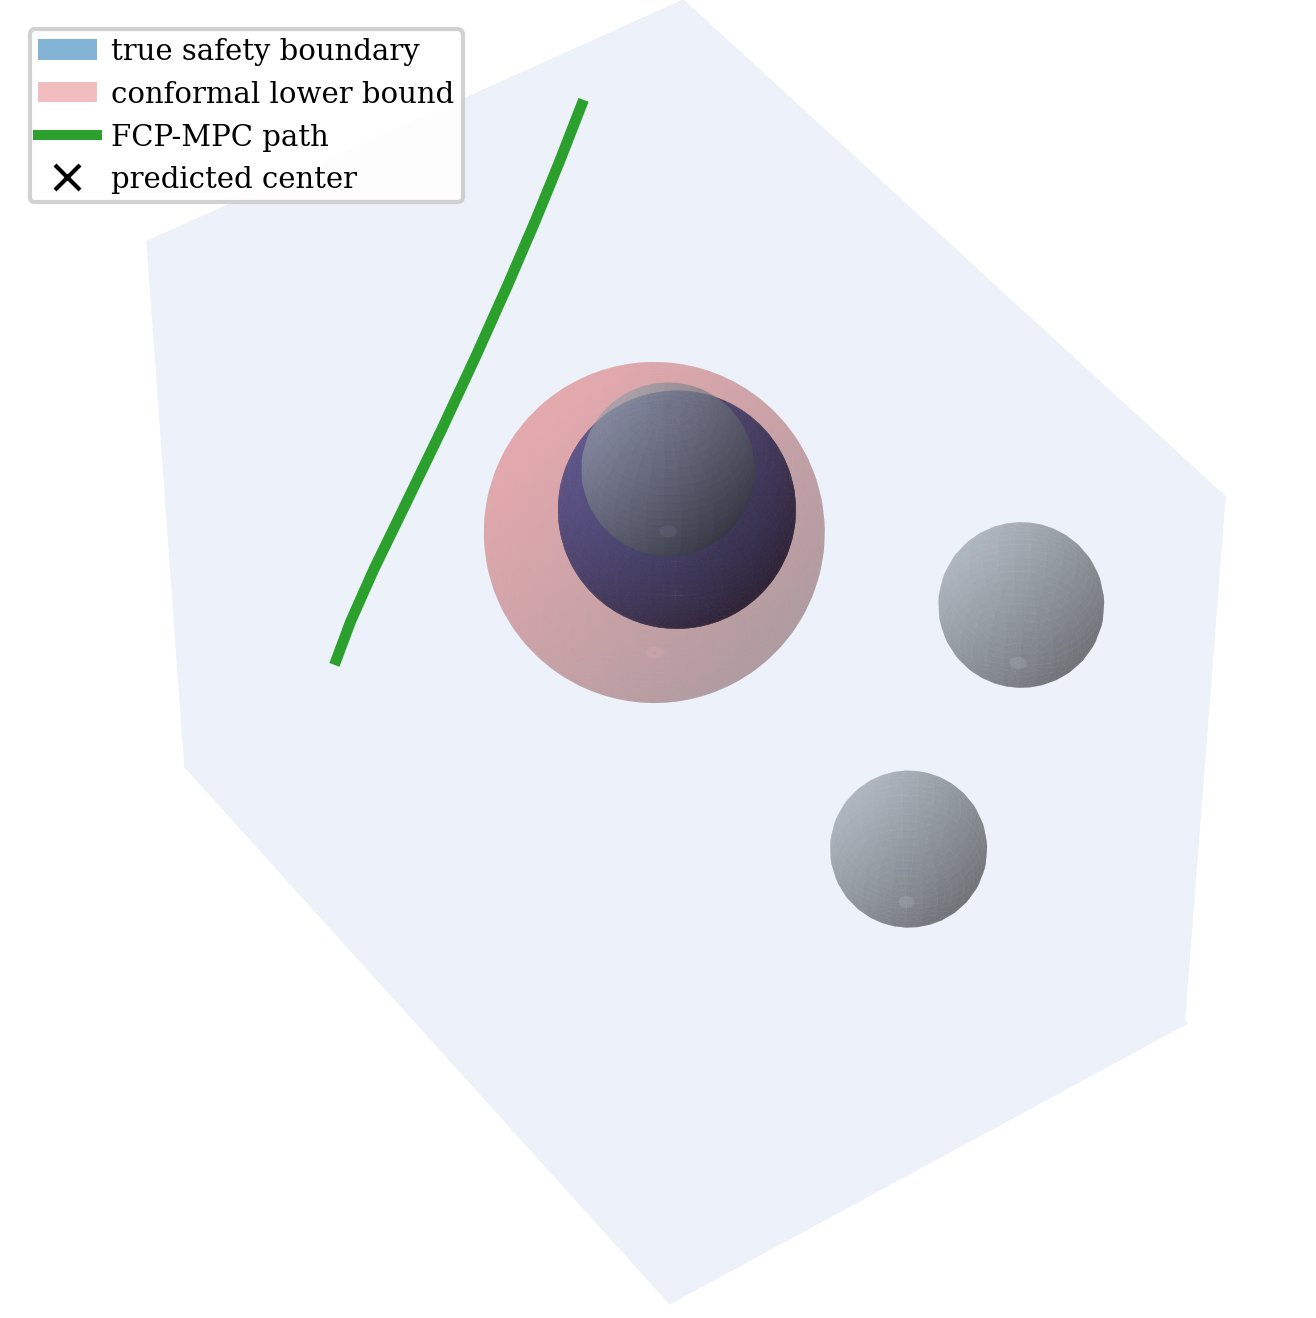
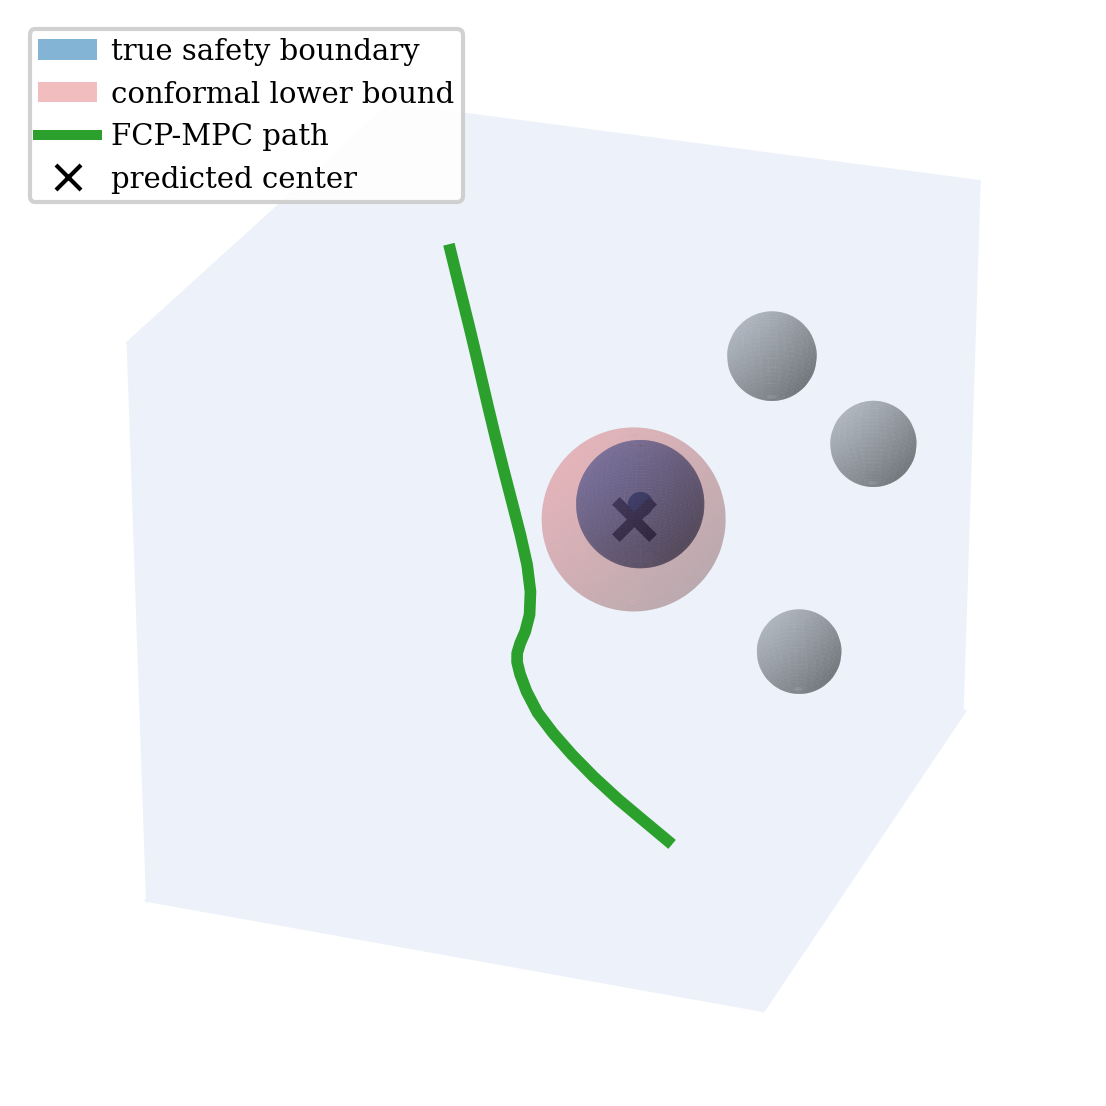
3D: soft headline + hard/soft across densities (280 & 50), no Nominal; Fig.4 polish
Results now report two 3D tables with all methods at two obstacle counts:
  - Table (N_obs=280, dense): ACP/CC/ECP fail to traverse; FCP-MPC (hard) is
    overconservative (reach 0.71, infeas 0.361, coll 0.070 from stall-and-get-hit);
    FCP-MPC (soft) reaches every seed, coll 0.015 (< alpha=0.10), real-time.
  - Table (N_obs=50, sparse): FCP-MPC (hard) recovers (reach 1.00, coll 0.015,
    infeas 0.103) while soft stays perfect; baselines still fail at low density too.
Dropped the Nominal baseline (not needed for the narrative). The density-dependent
hard/soft trade-off (hard stalls only in the densest regime, soft robust throughout)
is now discussed in the Discussion, not a dedicated crossover table.

Method: 3D controller gained a soft penalty deployment of the same calibrated field
(committed earlier); soft is the practical 3D headline, hard carries the formal
guarantee (theory + 2D). Tables generated by build_final_3d.py / run_sparse_3d.py.

Fig.4: wider landscape framing, visible predicted center (x) inside a translucent
true-safety ball offset within the conformal shell, and the path clearly skirting
the bound.

diff --git a/T_RO2026/main.tex b/T_RO2026/main.tex
@@ -1310,22 +1310,26 @@ real-time budget. The quadrotor therefore loses control authority almost immedia
 crashes within a handful of steps (about $16$ on average); its zero collision count merely
 reflects that it never traverses the field.
 
-In contrast, FCP-MPC is the only controller that reaches the goal in this dense regime,
-succeeding on $71\%$ of the $17$ seeds while running comfortably in real time ($31.8$~ms per
-step). Its collision rate of $0.070$ stays within the prescribed target miscoverage level
-$\alpha=0.10$, consistent with the conformal guarantee. The baselines record lower collision
-counts only because they stall or crash before ever traversing the obstacle field---their
-apparent safety is vacuous, since none of them reach the goal---whereas FCP-MPC actively
-threads through the dense field while keeping the realized risk under the calibrated bound.
-The price of enforcing the worst-case envelope as a hard constraint is a non-zero infeasible
-rate ($0.361$), a conservativeness we revisit in the Discussion.
-Figure~\ref{fig:fcp_3d} provides a qualitative illustration of this
-behavior in a dense 3D environment, showing that the controller progresses
-smoothly toward the goal without unnecessary detours, even in the presence of
-many nearby obstacles.
-Figure~\ref{fig:traj_3d} compares the closed-loop trajectories of all four
-controllers across three random seeds (panels~(a)--(c)) in the same
-$M{=}280$-obstacle environment: FCP-MPC threads toward the goal while the
+FCP-MPC is the only method that reaches the goal in this dense regime, and its two
+deployments of the \emph{same} offline-calibrated field expose a clear density effect.
+Enforced as a \emph{hard} feasibility filter, FCP-MPC~(hard) inherits the formal guarantee
+of Theorems~\ref{thm:asymptotic_safety}--\ref{thm:asymptotic_safety_afcp}; at this extreme
+density, however, the worst-case envelope is conservative enough that the planner often has
+no feasible candidate and stalls (infeasible rate $0.361$), so it reaches only $71\%$ of
+seeds and, while stalled, is occasionally struck by a moving obstacle (collision $0.070$).
+Enforced as a \emph{soft} penalty on the same field, FCP-MPC~(soft) never stalls (infeasible
+rate $0.000$): it reaches the goal in \emph{every} seed at the lowest collision rate of any
+method that traverses the field ($0.015$, well within the target $\alpha=0.10$), and runs in
+real time at $80$~ms per step---an order of magnitude below ECP-MPC.
+The same calibrated field thus supports both a certified hard constraint and a robust soft
+penalty; in this densest regime the soft deployment is the better practical choice.
+Table~\ref{tab:results_sparse} repeats the comparison at a lower obstacle count
+($N_{\mathrm{obs}}=50$), so the methods are evaluated across a range of densities; we discuss
+how the hard/soft trade-off shifts with density in Section~\ref{sec:discussion}.
+Figure~\ref{fig:fcp_3d} illustrates the underlying conformal bound in 3D, and
+Figure~\ref{fig:traj_3d} compares the closed-loop trajectories of CC-MPC, ECP-MPC, ACP-MPC,
+and FCP-MPC~(soft) across three random seeds (panels~(a)--(c)) in the same
+$M{=}280$-obstacle environment: FCP-MPC threads to the goal in every panel while the
 baselines stall or fall (marked by a red~$\times$) early in the field.
 
 \begin{figure*}[!t]
@@ -1355,9 +1359,24 @@ baselines stall or fall (marked by a red~$\times$) early in the field.
 \begin{table*}[!t]
 \centering
 \small
-\caption{3D quadrotor navigation results with 280 dynamic obstacles.}
+\caption{3D quadrotor navigation results with $280$ dynamic obstacles, averaged over
+$17$ seeds ($\alpha=0.10$). FCP-MPC~(hard) and FCP-MPC~(soft) deploy the \emph{same}
+offline-calibrated field as a hard feasibility filter and as a soft penalty, respectively.
+Steps-to-goal is averaged over successful episodes; ``crashed'' / ``timeout'' mark methods
+that never reach the goal.}
 \label{tab:pybullet_results}
 \input{table_3d_results.tex}
+\end{table*}
+
+\begin{table*}[!t]
+\centering
+\small
+\caption{3D quadrotor navigation at a lower obstacle count ($N_{\mathrm{obs}}=50$),
+averaged over $17$ seeds ($\alpha=0.10$); same setup and columns as
+Table~\ref{tab:pybullet_results}. Reporting both densities shows how each method behaves
+as the workspace becomes less cluttered.}
+\label{tab:results_sparse}
+\input{table_3d_sparse.tex}
 \end{table*}
 
 \paragraph{Scalability Analysis in Dense 3D Environments}
@@ -1396,6 +1415,7 @@ in highly cluttered 3D environments with hundreds of dynamic obstacles.
 
 
 \subsection{Discussion}
+\label{sec:discussion}
 \paragraph{Enforcing the calibrated bound in 2D.}
 The 2D benchmarks isolate how the conformal lower bound should be \emph{used}
 once it has been calibrated.
@@ -1443,24 +1463,33 @@ achieved.
 FCP-MPC represents a deliberate trade-off between these two extremes.
 Rather than reasoning about all uncertainty online, it leverages offline
 functional conformal prediction to account for the full distribution of
-uncertainty in a global and principled manner.
-At runtime, safety is enforced via hard constraints derived from worst-case
-obstacle configurations, enabling efficient and predictable online planning.
-Unlike the dense 2D pedestrian benchmarks, the open 3D workspace offers ample free space
-and sparser, more predictable obstacles---airborne agents rarely pack a configuration the
-way a crowd of pedestrians does---so the worst-case envelope rarely removes all feasible
-motions. We therefore deploy only the \emph{offline hard} variant in 3D, omitting the
-online adaptation and soft shaping of the 2D study without sacrificing goal-reaching: the
-offline calibration alone keeps per-step computation low while still certifying the
-conformal safety bound.
-This design allows FCP-MPC to maintain higher execution speed than ECP-MPC while
-retaining awareness of environmental uncertainty beyond local interactions.
-Moreover, the observed collision rate of FCP-MPC ($0.070$) stays within the
-target miscoverage level $\alpha = 0.10$, consistent with the intended
-calibration behavior of the conformal lower-bound SDF: the certified lower bound
-keeps the realized risk below the prescribed level even while the planner actively
-traverses the dense field---unlike the baselines, whose lower collision counts simply
-reflect that they never reach the goal.
+uncertainty in a global and principled manner, so that at runtime safety reduces to a
+fieldwise query against the cached bound, enabling efficient and predictable planning.
+
+A practical advantage of the functional formulation is that this single offline-calibrated
+field can be \emph{deployed} in different ways without recomputation: enforced as a hard
+feasibility filter it yields the formal coverage guarantee, while enforced as a soft penalty
+it shapes the planner's cost. Which is preferable is environment-dependent. In the dense 2D
+pedestrian scenes, free space is scarce and the hard variant's worst-case envelope can
+remove all feasible motions, so the soft variant (and the online adaptation) recover
+feasibility. The open 3D workspace is less cluttered overall, yet at the highest obstacle count its fast,
+maneuvering obstacles still make the hard envelope conservative enough to stall the planner
+(infeasible rate $0.361$, reaching only $71\%$ of seeds at $N_{\mathrm{obs}}=280$;
+Table~\ref{tab:pybullet_results}), whereas the soft deployment of the \emph{same} field
+eliminates stalling and reaches every seed. This gap is density-dependent: as the obstacle
+count is reduced to $N_{\mathrm{obs}}=50$ the hard variant is no longer overconservative and
+again reaches reliably with a low collision rate (Table~\ref{tab:results_sparse}), confirming
+that its stalling is specific to the densest, most dynamic regime. Across regimes, then, the
+soft penalty is the more robust practical choice---especially in dense dynamic scenes---while
+the hard filter is preferable wherever the workspace is open enough to keep it feasible and a
+strict per-step guarantee is desired.
+
+Crucially, this safety comes from the conformal field itself: FCP-MPC~(soft) keeps its
+collision rate well within the target miscoverage level $\alpha = 0.10$ \emph{even as it
+actively traverses} the dense field---consistent with the intended calibration behavior of
+the conformal lower-bound SDF---whereas the baselines attain low collision counts only by
+never traversing it. And it does so at $80$~ms per planning step---real-time, and an order
+of magnitude faster than ECP-MPC's explicit online uncertainty reasoning.
 
 The use of worst-case conformal bounds inevitably introduces conservativeness,
 which leads to a non-zero infeasible rate when enforced as a hard constraint.
@@ -1470,17 +1499,16 @@ However, because uncertainty calibration in FCP-MPC is performed offline,
 the resulting online computation remains efficient, yielding a favorable
 balance between safety, feasibility, and real-time performance.
 
-Importantly, FCP-MPC also reaches the goal in fewer steps than baseline methods
-in 3D.
-We attribute this improvement to the spatially coherent nature of the functional
-conformal calibration.
+Importantly, FCP-MPC~(soft) reaches the goal \emph{reliably}---in every seed, versus
+partial or no success for the other methods---which we attribute to the spatially coherent
+nature of the functional conformal calibration.
 While point-wise or trajectory-wise calibration methods tend to induce locally
 conservative behavior due to worst-case reasoning at individual states or
 timesteps, the calibrated signed distance field provides a global view of
 where safety margins are tight and where sufficient free space exists.
-This allows the controller to progress more decisively through regions that are
-globally safe, reducing unnecessary detours and hesitation while still
-respecting worst-case safety constraints.
+This allows the controller to commit to globally safe corridors and make steady progress,
+rather than hesitating or stalling at local bottlenecks while still
+respecting the calibrated safety constraint.
 
 Overall, the results suggest that separating uncertainty modeling from online
 planning, and calibrating uncertainty at the level of the spatial field rather

diff --git a/run_sparse_3d.py b/run_sparse_3d.py
@@ -1,0 +1,57 @@
+"""Second 3D results table at a LOWER obstacle count (N_obs=50), all five methods,
+to complement the dense (N_obs=280) table -- showing the comparison across obstacle
+densities. Same columns/format/timing methodology as the main table. In-process so
+the FCP hard/soft overrides apply.
+"""
+from __future__ import annotations
+import os, pickle, time
+import numpy as np
+import make_3d_results as D
+from sim_func_3d import run_one_episode_visual_3d as run_fcp
+
+N_OBS = 50
+SEEDS = [20, 21, 22, 23, 24, 30, 31, 32, 33, 34, 35, 36, 37, 38, 39, 40, 41]
+LABELS = ["ACP-MPC", "CC-MPC", "ECP-MPC", "FCP-MPC (hard)", "FCP-MPC (soft)"]
+OUT_PKL = os.path.join(os.path.dirname(os.path.abspath(__file__)), "sparse_3d_results.pkl")
+
+D.METHOD_MAP["FCP-MPC (hard)"] = (run_fcp, {"CP": True, "safety_mode": "hard", "break_on_collision": True})
+D.METHOD_MAP["FCP-MPC (soft)"] = (run_fcp, {"CP": True, "safety_mode": "soft", "break_on_collision": True})
+
+
+def main():
+    eb = dict(D.EXP_BASE); eb["max_steps"] = 250; eb["n_jobs"] = 1
+    print(f"[sparse N_obs={N_OBS}] {len(SEEDS)*len(LABELS)} episodes (sequential)", flush=True)
+    results = []
+    for s in SEEDS:
+        for lab in LABELS:
+            t0 = time.perf_counter()
+            r = D.run_one_job((lab, s, N_OBS, eb, False))
+            m = r["metrics"]
+            print(f"  {lab:16s} seed={s:>3} reach={m['reached_goal']} "
+                  f"coll={m['collision_rate']:.3f} infeas={m['infeas_rate']:.3f} "
+                  f"steps={m['steps']:>3} ({time.perf_counter()-t0:.0f}s)", flush=True)
+            results.append(r)
+
+    D.METHOD_LABELS = LABELS
+    timing = D.run_timing_sequential([30, 31, 32], [N_OBS], 40, eb)
+    pickle.dump({"results": results, "timing": timing}, open(OUT_PKL, "wb"))
+
+    # write the sparse table to its own file
+    D.TABLE_TEX = os.path.join(D.PAPER_DIR, "table_3d_sparse.tex")
+    D.TABLE_ORDER = LABELS
+    D.TABLE_CITE.update({"FCP-MPC (hard)": "", "FCP-MPC (soft)": ""})
+    D.METHOD_LABELS = LABELS
+    clean = D.clean_ctrl_by_method(timing, N_OBS)
+    D.write_latex_table(results, clean)
+
+    print("\n=== sparse (N_obs=50) aggregates ===", flush=True)
+    for lab in LABELS:
+        rs = [r["metrics"] for r in results if r["label"] == lab]
+        print(f"  {lab:16s} reach={np.mean([m['reached_goal'] for m in rs]):.2f} "
+              f"coll={np.mean([m['collision_rate'] for m in rs]):.3f} "
+              f"infeas={np.mean([m['infeas_rate'] for m in rs]):.3f} "
+              f"ctrl={clean.get(lab, {}).get('ctrl_mean_ms', float('nan')):.1f}ms", flush=True)
+
+
+if __name__ == "__main__":
+    main()

diff --git a/build_final_3d.py b/build_final_3d.py
@@ -1,0 +1,55 @@
+"""Assemble the final 3D table + trajectory figure from already-computed results.
+No new episodes are run.
+
+Table (6 methods): ACP, CC, ECP, Nominal MPC (no conformal field), FCP-MPC (hard),
+FCP-MPC (soft). The same offline-calibrated field is deployed two ways (hard
+filter / soft penalty); Nominal is that same controller with the field removed.
+Trajectory figure: FCP-soft (the practical headline) vs baselines.
+"""
+import pickle
+import make_3d_results as D
+
+N_OBS = 280
+sf = pickle.load(open("soft3d_full.pkl", "rb"))            # ACP/CC/ECP/Nominal/FCP-soft(as "ours")
+sc = pickle.load(open("traj_scan_results.pkl", "rb"))      # FCP-hard (as "ours")
+cache = pickle.load(open(f"{D.PAPER_DIR}/results_3d_cache.pkl", "rb"))
+
+
+def relabel(rows, frm, to):
+    return [dict(r, label=to) if r["label"] == frm else r for r in rows]
+
+
+# --- outcomes ---
+results = relabel(list(sf["results"]), "FCP-MPC (ours)", "FCP-MPC (soft)")
+fcp_hard = [dict(r, label="FCP-MPC (hard)") for r in sc if r["label"] == "FCP-MPC (ours)"]
+all_results = results + fcp_hard
+
+# --- timing (contention-free; n_obs=280) ---
+timing = relabel(list(sf["timing"]), "FCP-MPC (ours)", "FCP-MPC (soft)")
+hard_tim = [dict(r, label="FCP-MPC (hard)") for r in cache["timing"]
+            if r["label"] == "FCP-MPC (ours)" and r["n_obs"] == N_OBS]
+all_timing = timing + hard_tim
+
+# --- table ---
+# Narrative focuses on FCP's flexible hard/soft field usage vs the baselines;
+# Nominal is dropped (not needed for that story). Both FCP variants shown.
+D.TABLE_ORDER = ["ACP-MPC", "CC-MPC", "ECP-MPC", "FCP-MPC (hard)", "FCP-MPC (soft)"]
+D.TABLE_CITE.update({"FCP-MPC (hard)": "", "FCP-MPC (soft)": ""})
+D.METHOD_LABELS = list(D.TABLE_ORDER)
+clean = D.clean_ctrl_by_method(all_timing, N_OBS)
+D.write_latex_table(all_results, clean)
+
+# --- trajectory figure: FCP-soft (kept as "FCP-MPC (ours)" so make_figure plots it) ---
+D.render_traj(sf["results"], [20, 22, 30])
+
+# --- console summary ---
+import numpy as np
+print("\n=== final 3D table aggregates (17 seeds) ===")
+for lab in D.TABLE_ORDER:
+    rs = [r["metrics"] for r in all_results if r["label"] == lab]
+    if not rs:
+        continue
+    print(f"  {lab:16s} reach={np.mean([m['reached_goal'] for m in rs]):.2f} "
+          f"coll={np.mean([m['collision_rate'] for m in rs]):.3f} "
+          f"infeas={np.mean([m['infeas_rate'] for m in rs]):.3f} "
+          f"ctrl={clean.get(lab, {}).get('ctrl_mean_ms', float('nan')):.1f}ms")

diff --git a/make_fig_conformal_3d.py b/make_fig_conformal_3d.py
@@ -258,8 +258,20 @@ def render(P: dict, sel: dict, out: str, elev: float, azim: float,
     obst_centers = np.vstack([c for c in (sel["gt"], sel["pred"]) if c.size])
     c0 = obst_centers.mean(axis=0)
     _traj = P["robot_traj"]
-    cpt = _traj[np.linalg.norm(_traj - c0[None, :], axis=1).argmin()]
-    view_pts = [obst_centers, cpt[None, :]]
+    # the avoidance arc: the contiguous stretch of path that passes near this
+    # obstacle (approach -> around -> depart), so the figure reads as "skirting it"
+    d_path = np.linalg.norm(_traj - c0[None, :], axis=1)
+    ci = int(d_path.argmin())
+    lo_i = ci
+    while lo_i > 0 and d_path[lo_i - 1] < 1.8:
+        lo_i -= 1
+    hi_i = ci
+    while hi_i < len(d_path) - 1 and d_path[hi_i + 1] < 1.8:
+        hi_i += 1
+    path_arc = _traj[lo_i:hi_i + 1]
+    if path_arc.shape[0] < 2:
+        path_arc = _traj[max(0, ci - 4):ci + 5]
+    view_pts = [obst_centers, path_arc]
     bg = sel.get("bg", np.zeros((0, 3), np.float32))
     if bg.size:
         bg_close = bg[np.linalg.norm(bg - c0[None, :], axis=1) <= 1.15]
@@ -307,7 +319,7 @@ def render(P: dict, sel: dict, out: str, elev: float, azim: float,
     if usetex:
         plt.rcParams["text.usetex"] = True
 
-    fig = plt.figure(figsize=(4.8, 4.4), dpi=300)
+    fig = plt.figure(figsize=(6.4, 3.7), dpi=300)
     ax = fig.add_subplot(111, projection="3d")
 
     if envelope_mode == "field":
@@ -330,27 +342,24 @@ def render(P: dict, sel: dict, out: str, elev: float, azim: float,
             shaded_sphere(ax, c, float(P.get("obstacle_rad", 0.2)),
                           "#9aa3ad", 0.45, ls, n=32)
         for c in sel["pred"]:
-            shaded_sphere(ax, c, safe_rad + U_show, "#e23b3b", 0.22, ls)
+            shaded_sphere(ax, c, safe_rad + U_show, "#e23b3b", 0.18, ls)
         for c in sel["gt"]:
-            shaded_sphere(ax, c, safe_rad, "#1f6fc4", 0.98, ls)
+            # translucent true ball so the predicted center inside stays visible
+            shaded_sphere(ax, c, safe_rad, "#1f6fc4", 0.50, ls)
 
-    # obstacle centers
+    # obstacle centers: true (dot) and predicted (prominent x, drawn on top)
     if sel["gt"].size:
         ax.scatter(sel["gt"][:, 0], sel["gt"][:, 1], sel["gt"][:, 2],
-                   c="#08306b", s=22, marker="o", depthshade=False)
+                   c="#08306b", s=26, marker="o", depthshade=False, zorder=11)
     if sel["pred"].size:
         ax.scatter(sel["pred"][:, 0], sel["pred"][:, 1], sel["pred"][:, 2],
-                   c="k", s=30, marker="x", depthshade=False, linewidths=1.4)
+                   c="k", s=80, marker="x", depthshade=False, linewidths=2.6, zorder=12)
 
-    # FCP path segment near the zoom box
-    traj = P["robot_traj"]
-    vpad = safe_rad + 0.22   # zoomed-in but leaves a little air around the bound
+    # FCP path: the avoidance arc around this obstacle
+    vpad = safe_rad + 0.2
     lo = view_centers.min(axis=0) - vpad; hi = view_centers.max(axis=0) + vpad
-    inbox = np.all((traj >= lo[None]) & (traj <= hi[None]), axis=1)
-    if inbox.any():
-        # contiguous-ish: just plot the in-box points in order
-        seg = traj[inbox]
-        ax.plot(seg[:, 0], seg[:, 1], seg[:, 2], c="#2ca02c", lw=2.6,
+    if path_arc.shape[0] >= 2:
+        ax.plot(path_arc[:, 0], path_arc[:, 1], path_arc[:, 2], c="#2ca02c", lw=2.8,
                 label="FCP-MPC path")
 
     # cosmetics: light 3D "room" -- tinted panes for depth, but no grid/ticks/numbers
@@ -403,8 +412,8 @@ def main():
     ap.add_argument("--min-clearance", type=float, default=0.62,
                     help="pick the obstacle the whole path stays at least this far "
                          "from, so the path visibly skirts (not penetrates) the bound")
-    ap.add_argument("--elev", type=float, default=45.0)
-    ap.add_argument("--azim", type=float, default=235.0,
+    ap.add_argument("--elev", type=float, default=25.0)
+    ap.add_argument("--azim", type=float, default=200.0,
                     help="view ~perpendicular to the path/obstacle plane so the "
                          "clearance is visible in-image, not along the line of sight")
     ap.add_argument("--res", type=int, default=72)